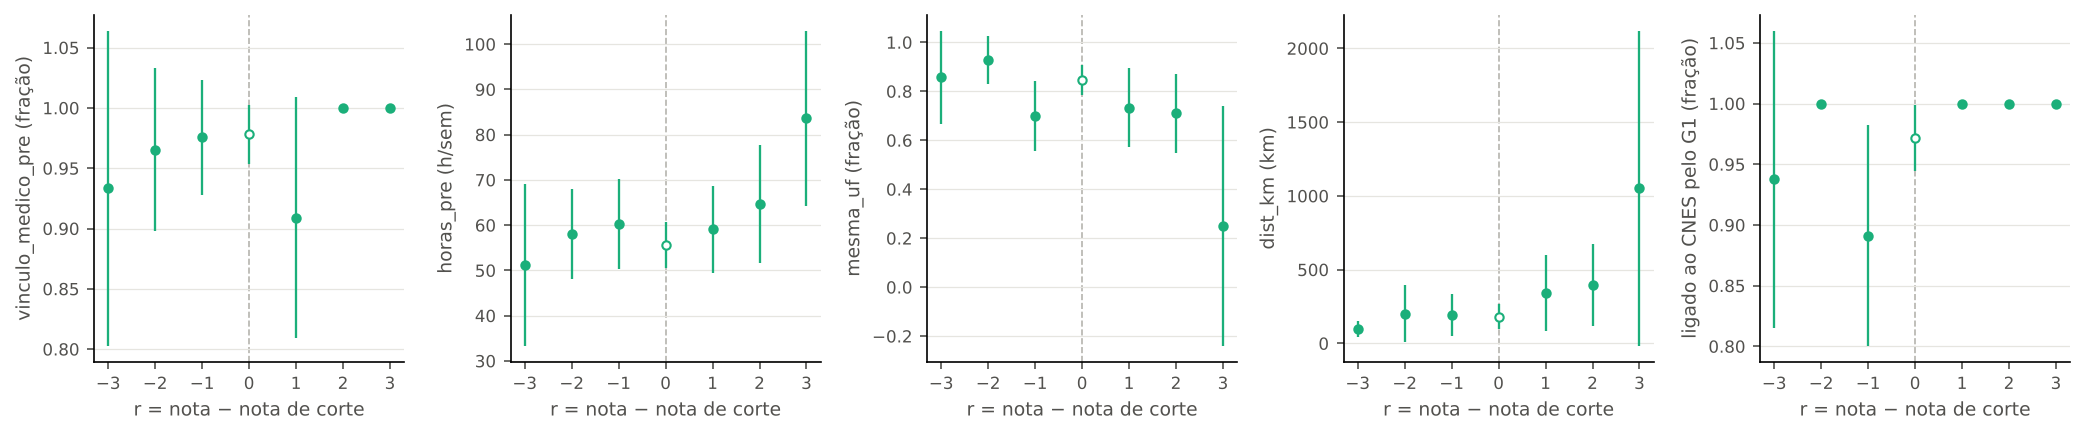
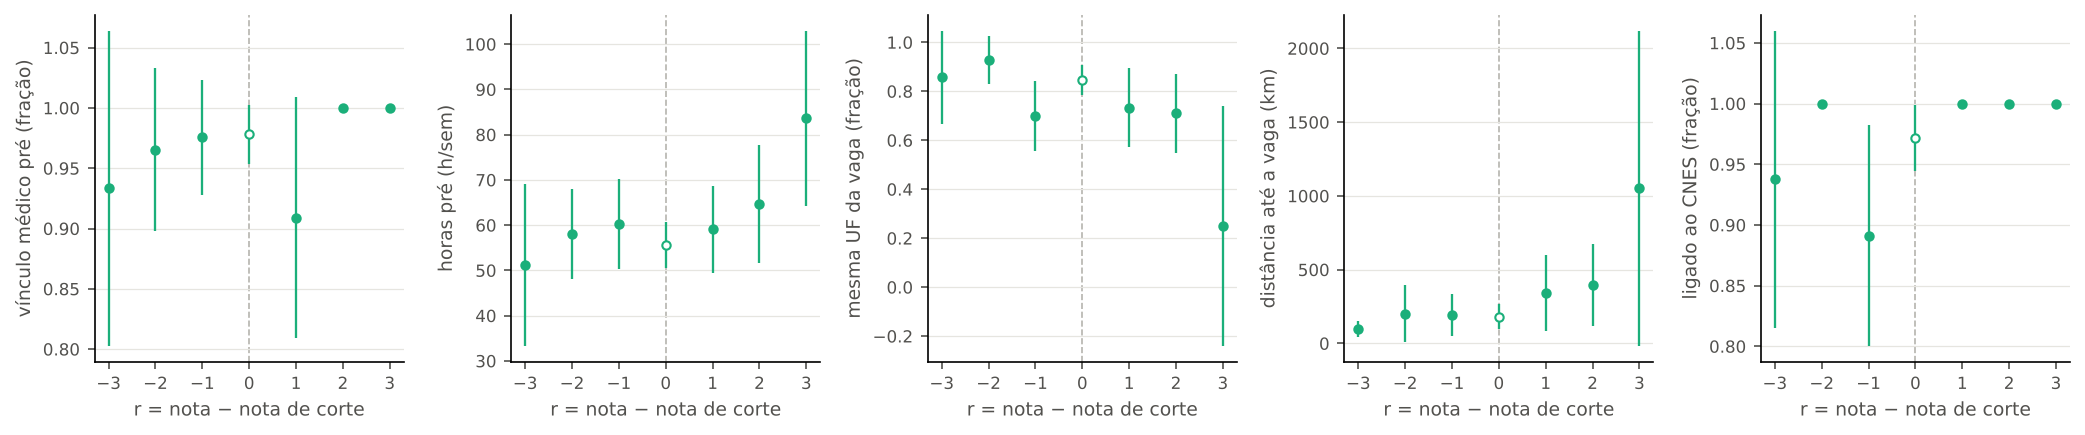
Auditoria 27 do P6 (protocolo 56): recálculo independente e correções de relato
Amostra, primeiro estágio, R1, Holm, BKY e balanço reproduzidos com código próprio;
nenhuma estimativa mudou. Doc 57f ganha avisos junto da tabela do R1 (Y1 quase
mecânico, desequilíbrio de distância e ligação, Y3 com p = 0,048 não é efeito),
"Como ler" sem sugestão de efeito e rótulos legíveis no gráfico de balanço.
Teste TestRecalculoIndependenteAuditoria27; registro de mudanças.

Claude-Session: https://claude.ai/code/session_01Qxc5n9ChUVdp7Ms7bEfjx9

diff --git a/tests/test_mecanismo_alocacao.py b/tests/test_mecanismo_alocacao.py
@@ -415,3 +415,130 @@ class TestDoc57f(unittest.TestCase):
 
 if __name__ == "__main__":
     unittest.main()
+
+
+class TestRecalculoIndependenteAuditoria27(unittest.TestCase):
+    """Recálculo independente da auditoria 27 (`docs/auditorias/27_auditoria_P6_mecanismo.md`).
+
+    Código próprio em pandas/numpy a partir de `P6_amostra.parquet` (agregado pseudônimo versionado), sem chamar
+    funções dos scripts 30 e 31: contagem da janela, primeiro estágio, R1 (efeito fixo de célula por centragem) em
+    Y1 e Y3, permutação dentro da célula com outra semente (ordem de grandeza), Holm e BKY da família de 10 e
+    balanço de distância e taxa de ligação. Também confere os avisos do doc.
+    """
+
+    @classmethod
+    def setUpClass(cls):
+        g = pd.read_parquet(AMOSTRA)
+        g = g[g["regra_ligacao"] == "g1_cpf_nome"]
+        w = g[g["r"].isin([-2, -1, 1, 2])].copy()
+        w["D"] = (w["r"] > 0).astype(int)
+        cls.g, cls.w = g, w
+        cls.est = pd.read_csv(EST)
+
+    @staticmethod
+    def _fe(df, y):
+        df = df[df.groupby("celula")["D"].transform(lambda s: s.nunique() == 2)]
+        yy = df[y] - df.groupby("celula")[y].transform("mean")
+        dd = df["D"] - df.groupby("celula")["D"].transform("mean")
+        return float((dd * yy).sum() / (dd * dd).sum()), df
+
+    @staticmethod
+    def _perm(df, y, B=1999, semente=7):
+        rng = np.random.default_rng(semente)
+        b, df = TestRecalculoIndependenteAuditoria27._fe(df, y)
+        grupos = [np.where(df["celula"].to_numpy() == c)[0] for c in df["celula"].unique()]
+        yv, dv = df[y].to_numpy(float), df["D"].to_numpy(float)
+        n = 0
+        for _ in range(B):
+            num = den = 0.0
+            for ix in grupos:
+                dp = rng.permutation(dv[ix])
+                d0 = dp - dp.mean()
+                num += float((d0 * (yv[ix] - yv[ix].mean())).sum())
+                den += float((d0 * d0).sum())
+            n += abs(num / den) >= abs(b) - 1e-12
+        return (n + 1) / (B + 1)
+
+    def _est(self, esp, out, medida):
+        r = self.est[(self.est["especificacao"] == esp) & (self.est["regra_ligacao"] == "g1_cpf_nome") &
+                     (self.est["outcome"] == out) & (self.est["medida"] == medida)]
+        self.assertEqual(len(r), 1)
+        return r.iloc[0]
+
+    def test_contagens_e_primeiro_estagio(self):
+        self.assertEqual((len(self.g), self.g["celula"].nunique()), (320, 62))
+        lig = self.w[self.w["ligado"] == 1]
+        self.assertEqual(((lig["D"] == 1).sum(), (lig["D"] == 0).sum()), (64, 70))
+        b, df = self._fe(lig, "d_alocado_1a_opcao")
+        self.assertEqual((round(b, 6), int((df["D"] == 1).sum()), int((df["D"] == 0).sum())), (1.0, 30, 68))
+        b, _ = self._fe(lig, "d_alocado_pmme")
+        self.assertAlmostEqual(b, 0.917902, places=5)
+        b, df = self._fe(self.w, "d_alocado_pmme")
+        self.assertAlmostEqual(b, 0.925721, places=5)
+        self.assertEqual((int((df["D"] == 1).sum()), int((df["D"] == 0).sum())), (32, 73))
+
+    def test_r1_y1_y3_e_permutacao(self):
+        lig = self.w[self.w["ligado"] == 1]
+        for col, out, medida, pmax in (("y1_vinculo_mun_1a_opcao_ultimo", "y1_vinculo_mun_1a_opcao", "ultimo", 0.005),
+                                       ("y1_vinculo_mun_1a_opcao_media", "y1_vinculo_mun_1a_opcao", "media", 0.005),
+                                       ("y3_horas_totais_media", "y3_horas_totais", "media", 0.12)):
+            s = lig.dropna(subset=[col])
+            b, _ = self._fe(s, col)
+            e = self._est("R1", out, medida)
+            self.assertAlmostEqual(b, float(e["estimativa"]), places=6)
+            p = self._perm(s, col)
+            self.assertLess(p, pmax)
+            if out == "y3_horas_totais":
+                self.assertGreater(p, 0.01)
+                self.assertLess(abs(p - float(e["p_perm"])), 0.03)
+
+    def test_holm_e_bky_da_familia(self):
+        f = self.est[self.est["entra_familia"].astype(bool)]
+        p = f["p_perm"].to_numpy(float)
+        m = len(p)
+        self.assertEqual(m, 10)
+        o = np.argsort(p)
+        holm, corrente = np.empty(m), 0.0
+        for k, i in enumerate(o):
+            corrente = max(corrente, (m - k) * p[i])
+            holm[i] = min(corrente, 1.0)
+        np.testing.assert_allclose(holm, f["p_holm"].to_numpy(float), atol=1e-3)
+        q = np.ones(m)
+        for nivel in np.arange(0.999, 0.0, -0.001):
+            qq = nivel / (1 + nivel)
+            ps = p[o]
+            r1 = next((k for k in range(m, 0, -1) if ps[k - 1] <= qq * k / m), 0)
+            if r1 == 0:
+                continue
+            if r1 == m:
+                rej = np.ones(m, bool)
+            else:
+                q2 = qq * m / (m - r1)
+                r2 = next((k for k in range(m, 0, -1) if ps[k - 1] <= q2 * k / m), 0)
+                rej = np.zeros(m, bool)
+                rej[o[:r2]] = True
+            q[rej] = nivel
+        np.testing.assert_allclose(q, f["q_bky"].to_numpy(float), atol=1e-3)
+        y3 = self._est("R1", "y3_horas_totais", "media")
+        self.assertLess(float(y3["p_perm"]), 0.05)
+        self.assertGreater(float(y3["q_bky"]), 0.05)
+        self.assertGreater(float(y3["p_holm"]), 0.05)
+
+    def test_balanco_distancia_e_ligacao(self):
+        lig = self.w[self.w["ligado"] == 1]
+        b, _ = self._fe(lig.dropna(subset=["cov_dist_km"]), "cov_dist_km")
+        self.assertAlmostEqual(b, float(self._est("BAL", "cov_dist_km", "R1")["estimativa"]), places=4)
+        self.assertGreater(b, 300)
+        w = self.w.assign(lg=self.w["ligado"].astype(float))
+        b, df = self._fe(w, "lg")
+        self.assertAlmostEqual(b, 0.0913, places=3)
+        self.assertEqual(df.groupby("D")["lg"].mean().round(3).to_dict(), {0: 0.932, 1: 1.0})
+
+    def test_doc_destaca_avisos(self):
+        t = DOC.read_text(encoding="utf-8")
+        self.assertIn("Leia com três avisos", t)
+        self.assertIn("Y3, média do seguimento, não é efeito", t)
+        self.assertIn("O degrau do Y1 é quase mecânico", t)
+        self.assertNotIn("sugere efeito de ser alocado", t)
+        for f in ("P6_balanco.png",):
+            self.assertIn("Distância e ligação diferem", t)

diff --git a/scripts/rdd_bolsa/31_rd_mecanismo.py b/scripts/rdd_bolsa/31_rd_mecanismo.py
@@ -474,18 +474,20 @@ def aplicar_familia(est: pd.DataFrame) -> pd.DataFrame:
 # 3. Figuras (sem texto embutido; legenda simples; "Como ler" no doc e no resumo)
 # ---------------------------------------------------------------------------
 
+ROT_CURTO_COV = {"cov_vinculo_medico_pre": "vínculo médico pré", "cov_horas_pre": "horas pré",
+                 "cov_mesma_uf": "mesma UF da vaga", "cov_dist_km": "distância até a vaga", "ligado": "ligado ao CNES"}
 COR = ["#2a78d6", "#eb6834", "#1baf7a"]
 COR_TEXTO = "#52514e"
 COMO_LER = {
     "P6_primeiro_estagio.png": "Cada ponto é a fração de candidatos alocados na 1ª opção (azul) e em qualquer célula "
                                "(laranja) para cada distância r da nota de corte. À direita do zero, a nota passou "
                                "do corte; r = 0 são os empatados, decididos por regra fixa.",
-    "P6_outcomes_media.png": "Média de cada outcome nos meses de seguimento, por r, entre os candidatos ligados ao "
-                             "CNES. Um degrau entre r = −1 e r = +1 sugere efeito de ser alocado; barras são IC de "
-                             "95% sem efeito fixo de célula.",
-    "P6_outcomes_ultimo.png": "Mesma leitura, com o valor de cada outcome no último mês, 202608.",
-    "P6_balanco.png": "Covariáveis de antes do programa e taxa de ligação ao CNES, por r. Sem diferença entre os "
-                      "dois lados do corte, a comparação dos outcomes é mais crível.",
+    "P6_outcomes_media.png": "Média de cada outcome no seguimento, por r, entre os ligados (barras: IC de 95% sem "
+                             "efeito fixo de célula). O degrau do Y1 é quase mecânico; nos demais, os intervalos se "
+                             "sobrepõem.",
+    "P6_outcomes_ultimo.png": "Mesma leitura, no último mês (202608).",
+    "P6_balanco.png": "Covariáveis de antes do programa e taxa de ligação, por r. Distância e ligação "
+                      "diferem entre os lados (seção 5).",
 }
 DESCRICAO_FIGURAS = {
     "P6_primeiro_estagio.png": "Primeiro estágio: alocação por r (regra principal, todos os candidatos)",
@@ -562,7 +564,7 @@ def gerar_figuras(est: pd.DataFrame, dir_fig: Path) -> list[dict]:
     fig, axs = plt.subplots(1, 5, figsize=(14, 3.0))
     for ax, (c, u) in zip(axs, [(c, u) for c, _, u in COVS] + [("ligado", "fração")]):
         pontos(ax, _sel(est, especificacao="medias_por_r", outcome=c), COR[2])
-        _eixo(ax, f"{ROT_COV[c]} ({u})" if len(ROT_COV[c]) < 28 else f"{c.replace('cov_', '')} ({u})")
+        _eixo(ax, f"{ROT_CURTO_COV[c]} ({u})")
     fig.tight_layout()
     salvar(fig, "P6_balanco.png")
     for f in figs:
@@ -743,6 +745,9 @@ def leitura(est: pd.DataFrame, resumo: dict) -> str:
     lig_a = _um(est, especificacao="BAL", regra_ligacao=REGRAS[0], outcome="ligado", medida="taxa_acima")
     lig_b = _um(est, especificacao="BAL", regra_ligacao=REGRAS[0], outcome="ligado", medida="taxa_abaixo")
     dist = _um(est, especificacao="BAL", outcome="cov_dist_km", medida="R1")
+    y3 = _um(est, especificacao="R1", outcome="y3_horas_totais", medida="media")
+    y3u = _um(est, especificacao="R1", outcome="y3_horas_totais", medida="ultimo")
+    y3r3 = _um(est, especificacao="R3", outcome="y3_horas_totais", medida="media")
     am = resumo["amostra"]
     largura = []
     for col, i, rot, u in OUTCOMES:
@@ -758,7 +763,14 @@ def leitura(est: pd.DataFrame, resumo: dict) -> str:
         f"{_n(pe['estimativa'], 3, True)} (fração): a regra é cumprida, porque o corte vem da própria alocação "
         "publicada. Por isso o R2 (Wald) repete o R1.",
         f"- **Outcomes.** Na família do R1 (Y1–Y5 × último mês e média, {_i(len(fam))} testes), {_i(n_p05)} têm p de "
-        f"permutação < 0,05, {_i(n_holm)} rejeitam zero depois do Holm e {_i(n_q)} têm q de BKY ≤ 0,05.",
+        f"permutação < 0,05, {_i(n_holm)} rejeitam zero depois do Holm e {_i(n_q)} têm q de BKY ≤ 0,05. "
+        "Os que rejeitam são os dois do Y1 (quase mecânico); Y2 a Y5 não rejeitam zero.",
+        f"- **Y3, média do seguimento, não é efeito.** {_n(y3['estimativa'], 1, True)} h/sem {_ic_txt(y3, 1)}, "
+        f"p de permutação = {_p(y3['p_perm'])}, mas q de BKY = {_p(y3['q_bky'])} e p de Holm = {_p(y3['p_holm'])}: "
+        "um p < 0,05 entre 10 testes não é evidência. No último mês o p é "
+        f"{_p(y3u['p_perm'])}, e com tendência em r (R3) a estimativa cai para "
+        f"{_n(y3r3['estimativa'], 1, True)}. Os ICs do R4 (empatados incluídos, sem permutação, desempate por regra "
+        "fixa) que excluem zero em Y2 a Y4 também não são evidência: não têm correção para testes múltiplos.",
         "- **Balanço.** " + ("Nenhuma covariável pré nem a taxa de ligação tem diferença com p < 0,05 entre os lados."
                              if not bal_rej else "Diferença com p < 0,05 em: " + "; ".join(bal_rej) +
                              ". Nessas, os lados já diferiam antes da alocação e o contraste fica menos crível.")
@@ -882,6 +894,12 @@ def gerar_doc(est: pd.DataFrame, resumo: dict, p0: dict, am: pd.DataFrame) -> st
         "de Holm na família de 10 testes desta tabela.",
         "",
         tabela_r1(est),
+        "",
+        "**Leia com três avisos.** (1) O Y1 é quase mecânico: ser alocado cria o vínculo cadastrado no município da 1ª "
+        "opção; é o único que rejeita zero depois do Holm. (2) Os dois lados diferem na distância origem–1ª opção e na "
+        "taxa de ligação ao CNES (seção 5); os outcomes só existem para os ligados. (3) Y3 na média, com p = "
+        f"{_p(_um(est, especificacao='R1', outcome='y3_horas_totais', medida='media')['p_perm'])}, não "
+        "sobrevive à correção (q de BKY e p de Holm na tabela) e não é efeito. Tudo é efeito de ser alocado, não da bolsa.",
         "",
         "## 7. Robustez e sensibilidades (R2–R5)",
         "",

diff --git a/docs/auditorias/27_auditoria_P6_mecanismo.md b/docs/auditorias/27_auditoria_P6_mecanismo.md
@@ -1,0 +1,122 @@
+# Auditoria independente do P6 (protocolo 56): alocado por pouco contra não alocado por pouco
+
+> **Data:** 24/10/2026.<br>
+> **Objeto:** commit `df7df26`: `scripts/rdd_bolsa/30_mecanismo_alocacao.py`,
+> `31_rd_mecanismo.py`, `output/rdd_bolsa/P6_*`, o
+> [doc 57f](../06_execucao/57f_resultados_P6_mecanismo.md) e
+> `tests/test_mecanismo_alocacao.py`, contra o
+> [protocolo 56](../06_execucao/56_protocolo_P6_mecanismo_alocacao.md).<br>
+> **Veredito:** **APROVADO COM CORREÇÕES.** Amostra, primeiro estágio, R1, Holm,
+> BKY e balanço foram reproduzidos com código próprio. Nenhuma estimativa
+> mudou. As correções são de relato:
+> - o Y3 com p = 0,048 não dizia, no texto, que não é efeito;
+> - os avisos (Y1 mecânico, desequilíbrio de distância e ligação) ficavam só na
+>   leitura, longe da tabela dos resultados;
+> - o "Como ler" do gráfico de outcomes sugeria efeito;
+> - o gráfico de balanço usava nomes de variável como rótulo de eixo.<br>
+> **Proveniência:** todo número aqui foi lido de `output/rdd_bolsa/P6_*`. A
+> conferência que fica no repositório é a classe
+> `TestRecalculoIndependenteAuditoria27` de `tests/test_mecanismo_alocacao.py`.
+
+## 1. Método
+
+Código novo em pandas e numpy, sem importar os scripts 30 e 31, a partir de
+`P6_amostra.parquet` (agregado pseudônimo versionado). Efeito fixo de célula por
+centragem dentro da célula, só células com os dois lados. Permutação dentro da
+célula com semente própria. O cache privado existe no worktree e está no
+`.gitignore`; o recálculo não precisou dele.
+
+## 2. Recálculo
+
+| Item | Script | Auditoria |
+|---|---|---|
+| Universo: candidatos e células (regra principal) | 320 em 62 | 320 em 62 |
+| Janela R1, ligados: acima e abaixo | 64 e 70 | 64 e 70 |
+| Células com os dois lados; acima e abaixo efetivos | 27; 30 e 68 | 27; 30 e 68 |
+| Primeiro estágio D (ligados) | +1,000 | +1,000 |
+| Primeiro estágio D' (ligados; todos) | +0,918; +0,926 | +0,918; +0,926 |
+| R1 Y1, 202608 | +0,420 | +0,4197 |
+| R1 Y1, média | +0,405 | +0,4048 |
+| R1 Y3, média | +15,5 | +15,53 |
+| p de permutação Y1 (último; média) | 0,001; 0,001 | < 0,001 (piso do script: 0,001) |
+| p de permutação Y3, média | 0,048 | 0,048 (2.999 permutações) |
+| Holm e BKY da família de 10, a partir dos p do script | 10 valores | idênticos (3 casas) |
+| Balanço: distância | +328,9 km, p = 0,052 | +328,9 km, p = 0,052 |
+| Balanço: taxa de ligação | +0,091; 100,0% e 93,3% | +0,0913; 100,0% e 93,2% |
+
+Os outros 7 testes da família (Y2, Y4, Y5, Y3 no último mês) também batem nas
+estimativas e nos p, dentro da variação de Monte Carlo (até 0,02). A taxa de ligação abaixo é 93,2% na amostra das células com os dois lados e 93,3% no script (que usa todos da janela abaixo).
+
+## 3. Conferência contra o protocolo
+
+| Ponto | Situação |
+|---|---|
+| Unidade do corte "célula × ampla concorrência" | **Justificada.** Não é desvio do §1: o protocolo manda usar "célula × modalidade de concorrência, se a modalidade estiver no dado", e ela está. A escolha de olhar só a ampla concorrência foi fixada depois de ver contagens do G2 por r e antes de qualquer outcome; o doc diz isso e que, sem ela, não sobraria candidato com r > 0. Ressalva: a ordem não é verificável pelo Git (um só commit) |
+| Candidatos de reserva | Excluídos e contados: 0 no ciclo 1, 5 no ciclo 2 (na célula elegível) |
+| Exclusão por motivo, por célula | `P6_celulas.csv`; cada uma com motivo |
+| R6 e T6.3 `NAO_EXECUTADO` | Justificados. R6 coincide com o R1 neste desenho (escore 0 abaixo, 1 acima, indefinido no empate), condição do §4 ("se estável") não satisfeita. T6.3 o próprio protocolo manda não rodar |
+| Ciclo 3 fora; r = 0 fora do principal | ok |
+| Nenhum CNES ≥ 202609 | ok: máximo lido 202608 em `P6_cobertura_mensal.csv`; o script aborta se houver outra |
+| Arquivo local de IVS | não lido |
+
+## 4. Privacidade
+
+- Varredura de todo `output/` do diff (P6_amostra, celulas, cobertura,
+  estimativas, resumos, figuras): nenhum nome, CPF (inclusive mascarado), CNS ou
+  CRM. As ocorrências de "CPF", "CRM", "CNS" e "id_prof" nos JSON são texto de
+  integridade e nome de coluna do esquema; nenhum `id_prof` ligável a candidato
+  está em coluna de dados. Os números longos achados são decimais e hashes.
+- `P6_amostra.parquet` só tem `id_candidato` (posição pseudônima, a mesma já
+  versionada no G1 e no G2), célula, CNES do posto, município da 1ª opção, nota e
+  outcomes agregados por candidato. Não há `id_prof`. Observação, sem correção: com
+  as listas públicas do edital, quem conhece a célula e a nota pode localizar um
+  candidato; o padrão é o do G1 e do G2.
+- O cache privado (`cache_privado/chaves_extra_P6.parquet`, `G1_cache/`) está no
+  `.gitignore` (`git check-ignore` confirma) e `git show --stat df7df26` não o
+  lista.
+- Os painéis do a16 (`output/aquisicao/cnes_profissional/`) não aparecem no diff do
+  commit contra o commit base: o `id_prof` do P4 não foi renumerado.
+
+## 5. Achados e correções
+
+### C1. Y3 com p = 0,048 sem aviso (corrigido)
+
+O doc dizia "3 têm p < 0,05" sem dizer quais nem que o Y3 não sobrevive. Agora a
+leitura tem o item "Y3, média do seguimento, não é efeito": q de BKY 0,147, p de
+Holm 0,384, p = 0,113 no último mês e R3 de +0,6. Diz também que os ICs do R4
+que excluem zero em Y2 a Y4 não são evidência (sem permutação nem correção, com
+desempate por regra fixa), e que os dois que rejeitam depois do Holm são os do
+Y1.
+
+### C2. Avisos longe da tabela dos resultados (corrigido)
+
+Logo abaixo da tabela do R1 há agora "Leia com três avisos": Y1 quase mecânico;
+distância origem–1ª opção (+329 km, p = 0,052) e taxa de ligação (100,0% contra
+93,3%) desequilibradas, com outcomes só para ligados; Y3 não sobrevive à correção.
+Os números do aviso saem de `output/`.
+
+### C3. "Como ler" (corrigido)
+
+O dos outcomes dizia que um degrau "sugere efeito de ser alocado". Agora diz que o
+degrau do Y1 é quase mecânico e que nos demais os intervalos se sobrepõem. O do
+balanço aponta o desequilíbrio. Os quatro têm no máximo 3 frases (teste existente).
+As figuras não têm título nem legenda embutida; os rótulos dos eixos do balanço
+(`vinculo_medico_pre`, `dist_km`) viraram texto legível.
+
+### Observações, sem correção
+
+- Os IC do gráfico de médias por r são normais e saem de [0, 1] no Y1 e em
+  frações com poucos casos; é aparência, o texto não se apoia neles.
+- Em r = −1 a taxa de ligação é 89,1%, a menor da janela; combinada com 100% acima,
+  é o que produz o desequilíbrio. Nenhum limite de Manski foi calculado (fora do
+  protocolo).
+- A estimativa do Y1 e de todo outcome é efeito de ser alocado na 1ª opção, não da
+  bolsa, para ampla concorrência nas 27 células com os dois lados.
+
+## 6. Saídas e testes
+
+Nenhuma estimativa, tabela de CSV ou contagem mudou. Foram regerados, pelo script
+31: o doc 57f, `P6_balanco.png` e `P6_resumo.json` (textos e hash da figura).
+`tests/test_mecanismo_alocacao.py` ganhou `TestRecalculoIndependenteAuditoria27` (5
+testes). Com `test_trajetoria_medicos.py` e `test_pipeline_rdd_bolsa.py`: 73 testes,
+todos passam.

diff --git a/docs/06_execucao/57f_resultados_P6_mecanismo.md b/docs/06_execucao/57f_resultados_P6_mecanismo.md
@@ -143,6 +143,8 @@ Diferença entre r ∈ {+1, +2} e r ∈ {−1, −2}, com efeito fixo de célula
 | Y5: número de municípios com vínculo | último mês (202608) | +0,446 | [-0,371; +1,264] | 0,299 | 0,224 | 0,855 | 30 | 68 |
 | Y5: número de municípios com vínculo | média dos meses de seguimento | +0,432 | [-0,350; +1,215] | 0,285 | 0,224 | 0,855 | 30 | 68 |
 
+**Leia com três avisos.** (1) O Y1 é quase mecânico: ser alocado cria o vínculo cadastrado no município da 1ª opção; é o único que rejeita zero depois do Holm. (2) Os dois lados diferem na distância origem–1ª opção e na taxa de ligação ao CNES (seção 5); os outcomes só existem para os ligados. (3) Y3 na média, com p = 0,048, não sobrevive à correção (q de BKY e p de Holm na tabela) e não é efeito. Tudo é efeito de ser alocado, não da bolsa.
+
 ## 7. Robustez e sensibilidades (R2–R5)
 
 Efeito e IC 95%. R2 = Wald (efeito para os que obedecem); R3 = tendência linear em r de cada lado, r ∈ [−3, +3] sem 0; R4 = inclui os empatados, com indicador do desempate; R5 = ligação só por nome.
@@ -181,25 +183,26 @@ Efeito e IC 95%. R2 = Wald (efeito para os que obedecem); R3 = tendência linear
 
 ![P6_outcomes_media.png](../../output/rdd_bolsa/P6_figuras/P6_outcomes_media.png)
 
-**Como ler.** Média de cada outcome nos meses de seguimento, por r, entre os candidatos ligados ao CNES. Um degrau entre r = −1 e r = +1 sugere efeito de ser alocado; barras são IC de 95% sem efeito fixo de célula.
+**Como ler.** Média de cada outcome no seguimento, por r, entre os ligados (barras: IC de 95% sem efeito fixo de célula). O degrau do Y1 é quase mecânico; nos demais, os intervalos se sobrepõem.
 
 ### Outcomes Y1–Y5 em 202608, por r (regra principal)
 
 ![P6_outcomes_ultimo.png](../../output/rdd_bolsa/P6_figuras/P6_outcomes_ultimo.png)
 
-**Como ler.** Mesma leitura, com o valor de cada outcome no último mês, 202608.
+**Como ler.** Mesma leitura, no último mês (202608).
 
 ### Balanço: covariáveis pré e taxa de ligação, por r (regra principal)
 
 ![P6_balanco.png](../../output/rdd_bolsa/P6_figuras/P6_balanco.png)
 
-**Como ler.** Covariáveis de antes do programa e taxa de ligação ao CNES, por r. Sem diferença entre os dois lados do corte, a comparação dos outcomes é mais crível.
+**Como ler.** Covariáveis de antes do programa e taxa de ligação, por r. Distância e ligação diferem entre os lados (seção 5).
 
 ## 10. Leitura
 
 - **Amostra pequena.** A janela do R1 tem 64 candidatos ligados logo acima do corte e 70 logo abaixo; o efeito vem só das 27 células com os dois lados, com 30 acima e 68 abaixo. Os intervalos são largos: média do seguimento, Y1 [+0,210; +0,600]; Y2 [-4,4; +25,3]; Y3 [+0,6; +30,4]; Y4 [-0,036; +0,450]; Y5 [-0,350; +1,215].
 - **Primeiro estágio.** Na janela do R1, ser aprovado por pouco muda a alocação na 1ª opção em +1,000 (fração): a regra é cumprida, porque o corte vem da própria alocação publicada. Por isso o R2 (Wald) repete o R1.
-- **Outcomes.** Na família do R1 (Y1–Y5 × último mês e média, 10 testes), 3 têm p de permutação < 0,05, 2 rejeitam zero depois do Holm e 2 têm q de BKY ≤ 0,05.
+- **Outcomes.** Na família do R1 (Y1–Y5 × último mês e média, 10 testes), 3 têm p de permutação < 0,05, 2 rejeitam zero depois do Holm e 2 têm q de BKY ≤ 0,05. Os que rejeitam são os dois do Y1 (quase mecânico); Y2 a Y5 não rejeitam zero.
+- **Y3, média do seguimento, não é efeito.** +15,5 h/sem [+0,6; +30,4], p de permutação = 0,048, mas q de BKY = 0,147 e p de Holm = 0,384: um p < 0,05 entre 10 testes não é evidência. No último mês o p é 0,113, e com tendência em r (R3) a estimativa cai para +0,6. Os ICs do R4 (empatados incluídos, sem permutação, desempate por regra fixa) que excluem zero em Y2 a Y4 também não são evidência: não têm correção para testes múltiplos.
 - **Balanço.** Nenhuma covariável pré nem a taxa de ligação tem diferença com p < 0,05 entre os lados. Desequilíbrios declarados mesmo sem p < 0,05: a distância origem–1ª opção difere em +329 km [-25; +683] (p = 0,052), com os de cima vindo de mais longe; e a taxa de ligação ao CNES difere em +0,091 [-0,009; +0,192] (p = 0,093; acima 100,0%, abaixo 93,3%). A ligação diferencial pode enviesar os outcomes, que só existem para os ligados.
 - **Y1 é quase mecânico.** Ser alocado num posto cria um vínculo cadastrado no município da 1ª opção; o salto em Y1 mostra que a alocação aparece no CNES, não que o médico fique ou trabalhe lá.
 - **O que o contraste identifica.** O efeito de SER ALOCADO na 1ª opção do PMM-E, para candidatos de ampla concorrência perto da nota de corte de células com corte efetivo, sobre a trajetória cadastrada no CNES. Não é o efeito da bolsa, nem o do PMM-E sobre a oferta do município, nem retenção: vínculo cadastrado não é presença.

diff --git a/docs/00_registro_mudancas.md b/docs/00_registro_mudancas.md
@@ -8,6 +8,12 @@
 
 ---
 
+## 24/10/2026 — Auditoria 27 do P6 (doc 57f)
+
+Criado `docs/auditorias/27_auditoria_P6_mecanismo.md` (veredito, recálculo independente, correções de relato). Sem
+mudança de estimativa; doc 57f, `P6_balanco.png` e `P6_resumo.json` regerados pelo script 31; teste
+`TestRecalculoIndependenteAuditoria27` acrescentado.
+
 ## 23/10/2026 — P6 (protocolo 56): alocado por pouco contra não alocado por pouco (doc 57f)
 
 Motivo: onda 3 do plano [`06_execucao/51`](06_execucao/51_plano_perguntas_reformuladas.md) (agente E-P6,
